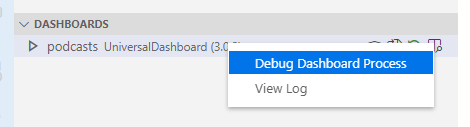
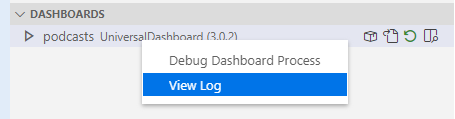
GitBook: [master] 7 pages and 19 assets modified

Changed region(s): [[0.0308, 0.0252, 1.0, 0.9076], [0.0, 0.0252, 0.2462, 0.2269]]

diff --git a/dashboard/development.md b/dashboard/development.md
@@ -1,0 +1,101 @@
+---
+description: Developing dashboards in VS Code.
+---
+
+# Development
+
+The [Visual Studio Code extension for PowerShell Universal](https://marketplace.visualstudio.com/items?itemName=ironmansoftware.powershell-universal) provides integration for working with dashboards. We recommend you also install the [PowerShell extension](https://marketplace.visualstudio.com/items?itemName=ms-vscode.PowerShell). 
+
+{% hint style="info" %}
+The first time you activate the Visual Studio Code extension, it will download the latest version of PowerShell Universal and start the server on port 5000.
+{% endhint %}
+
+## Developing a Dashboard
+
+To add a new dashboard, visit the admin console and go to Dashboard \ Dashboards and click the Add Dashboard button. 
+
+![](../.gitbook/assets/image%20%28129%29.png)
+
+After adding the dashboard, a dashboard PS1 file will be created and the `dashboards.ps1` file will be updated. You can view your dashboard in VS Code underneath the dashboards tree view. It will show the current state of the dashboard and the framework it is using. 
+
+![](../.gitbook/assets/image%20%28126%29.png)
+
+If you want to edit your dashboard, click the Open Dashboard File button. This will open the dashboard PS1 file in the editor and import the Universal module and Dashboard framework module so you have IntelliSense. 
+
+![](../.gitbook/assets/image%20%28133%29.png)
+
+From here, you can begin editing your dashboard.
+
+![](../.gitbook/assets/bxmax1ree3.gif)
+
+Your dashboard should restart automatically when you make changes. You will be able to view the dashboard in the browser by clicking the View button. 
+
+![](../.gitbook/assets/image%20%28127%29.png)
+
+If you need to restart your dashboard manually, you can click the Restart button. 
+
+![](../.gitbook/assets/image%20%28132%29.png)
+
+## Debugging a Dashboard
+
+### Logs
+
+You can view the dashboard logs by right clicking on the Dashboard and clicking View Log. The log should provide information about start up issues or errors when executing sections of your dashboard. 
+
+![](../.gitbook/assets/p8biqj6yvo.gif)
+
+### Debugger
+
+{% hint style="info" %}
+This section requires the PowerShell extension.
+{% endhint %}
+
+You can debug individual endpoints within your dashboard by using `Wait-Debugger`
+
+For example, if I wanted to debug the button on my dashboard, I would add it to the `OnClick` event handler. 
+
+```text
+New-UDDashboard -Title "Hello, World!" -Content {
+    New-UDTypography -Text "Hello, World!"
+
+    New-UDButton -Text "Learn more about Universal Dashboard" -OnClick {
+        Wait-Debugger
+        Invoke-UDRedirect https://docs.ironmansoftware.com
+    }
+}
+```
+
+Now, I can right click on my dashboard and click Debug Dashboard Process.
+
+![](../.gitbook/assets/image%20%28123%29.png)
+
+This will issue an `Enter-PSHostProcess` command in the Integrated Terminal. 
+
+```text
+PS C:\Users\adamr\Desktop> Enter-PSHostProcess -Id 15464
+
+[Process:15464]: PS C:\Users\adamr\Documents>
+```
+
+Next, you'll want to navigate to your page and click the button. Once the button is clicked, issue a `Get-Runspace` command in the Integrated Terminal. You'll notice that one of the runspaces is in `InBreakpoint` availability. 
+
+```text
+[Process:15464]: PS C:\Users\adamr\Documents> Get-Runspace
+
+
+ Id Name            ComputerName    Type          State         Availability
+ -- ----            ------------    ----          -----         ------------
+  1 Runspace1       localhost       Local         Opened        Busy        
+  2 Runspace2       localhost       Local         Opened        Available   
+  3 RemoteHost      localhost       Local         Opened        Available   
+  4 e8be011f-40f8-… localhost       Local         Opened        InBreakpoint
+```
+
+Finally, issue the `Debug-Runspace` command and VS Code will automatically open your endpoint in the debugger. You'll be able to step through your code, view variables and issue commands against the runspace. 
+
+![](../.gitbook/assets/jidgnpmbwy.gif)
+
+
+
+
+

diff --git a/automation/development.md b/automation/development.md
@@ -1,0 +1,50 @@
+---
+description: Developing scripts in VS Code
+---
+
+# Development
+
+The [Visual Studio Code extension for PowerShell Universal](https://marketplace.visualstudio.com/items?itemName=ironmansoftware.powershell-universal) provides integration for working with automation. We recommend you also install the [PowerShell extension](https://marketplace.visualstudio.com/items?itemName=ms-vscode.PowerShell). 
+
+{% hint style="info" %}
+The first time you activate the Visual Studio Code extension, it will download the latest version of PowerShell Universal and start the server on port 5000.
+{% endhint %}
+
+## Developing Scripts
+
+To add scripts to the Universal platform, you can do it via the admin console or the file system. The Visual Studio Code extension also provides integration for managing the `scripts.ps1` configuration file. 
+
+The Scripts tree view will provide access to each of your scripts, the admin console the `scripts.ps1` file.
+
+![](../.gitbook/assets/image%20%28120%29.png)
+
+To add a new script to the Universal platform, you can create the PS1 file on the file system and then add the script to the `scripts.ps1`. The file name is relative to the repository folder. You can also use fully qualified file paths. 
+
+```text
+New-PSUScript -Name "Script1.ps1" -Path "Script1.ps1" -InformationAction "Continue"
+```
+
+To edit a script in VS Code, click the Edit Script button. 
+
+![](../.gitbook/assets/image%20%28119%29.png)
+
+The script will open in the VS Code editor. 
+
+## Running Scripts
+
+You can start scripts by clicking the Run Script button. This will start a Universal Automation job. You'll get notifications of the job's progress in VS Code. 
+
+![](../.gitbook/assets/image%20%28128%29.png)
+
+## Developing Schedules
+
+You can edit schedules for scripts by editing the `schedules.ps1` file. A link to the file is available in the configuration tree view. 
+
+![](../.gitbook/assets/image%20%28131%29.png)
+
+Schedules are defined using `New-PSUSchedule` cmdlet.
+
+```text
+New-PSUSchedule -Cron "0 */4 * * *" -Script "Script1.ps1" -TimeZone "America/Denver"
+```
+

diff --git a/api/development.md b/api/development.md
@@ -1,0 +1,48 @@
+---
+description: Building APIs in VS Code.
+---
+
+# Development
+
+The [Visual Studio Code extension for PowerShell Universal](https://marketplace.visualstudio.com/items?itemName=ironmansoftware.powershell-universal) provides integration for working with APIs. We recommend you also install the [PowerShell extension](https://marketplace.visualstudio.com/items?itemName=ms-vscode.PowerShell). 
+
+{% hint style="info" %}
+The first time you activate the Visual Studio Code extension, it will download the latest version of PowerShell Universal and start the server on port 5000.
+{% endhint %}
+
+## Developing APIs
+
+You can add APIs by using the admin console or through the editor in Visual Studio Code. 
+
+To add an API in the Admin Console, you can visit `http://localhost:5000/admin/apis` and click Add Endpoint.
+
+![](../.gitbook/assets/image%20%28124%29.png)
+
+Once an `endpoints.ps1` file has been created, you can click the Open Endpoints.ps1 button within the API tree view to view the configuration file for APIs. 
+
+![](../.gitbook/assets/image%20%28122%29.png)
+
+The configuration file uses the Universal PowerShell cmdlets to define the endpoints within Universal. 
+
+If you created a blank endpoint, it would look something like this.
+
+```text
+New-PSUEndpoint -Url "/test" -Endpoint { 
+    # Enter your script to process requests.
+}
+```
+
+If you edit the `endpoints.ps1` file, it will update the API automatically. For example, if I added a new API, it would then appear in the admin console. 
+
+```text
+New-PSUEndpoint -Url "/test" -Endpoint { 
+ "hello"
+}
+
+New-PSUEndpoint -Url "/test2" -Endpoint { 
+    # Enter your script to process requests.
+}
+```
+
+![](../.gitbook/assets/image%20%28134%29.png)
+

diff --git a/debugging/debugging-scripts.md b/debugging/debugging-scripts.md
@@ -16,6 +16,10 @@ Jobs log extensively. You will see console and pipeline output. If you set`$Debu
 
 ### Dashboards
 
+{% hint style="info" %}
+See [dashboard Development](../dashboard/development.md) for information on how to use VS Code for development. 
+{% endhint %}
+
 Dashboards log informational, warning and error messages to their log. It's recommended to use logging when starting a dashboard rather than trying to attach a debugger. You can also use the `$DebugPreference` variable to get additional information during your dashboard startup. 
 
 ### Authentication and Authorization
@@ -80,7 +84,5 @@ For a full list of debugging commands, you can see the [Microsoft documentation 
 
 To debug a script, you can use the Wait-Debugger cmdlet within your script to pause the script until a debugger is attached. You can then use a debugger, like VS Code, to attach to the process and runspace to view variables, step through code and execute debugging commands. 
 
-PowerShell Pro Tools has a [One-Click Attach feature](https://docs.poshtools.com/powershell-pro-tools-documentation/visual-studio-code/one-click-attach) that makes it easier to debug scripts. 
-
-You can also debug scripts using the built in Enter-PSHostProcess, Get-Runspace and Debug-Runspace cmdlets.
+You can also debug scripts using the built in `Enter-PSHostProcess`, `Get-Runspace` and `Debug-Runspace` cmdlets.
 

diff --git a/visual-studio-code-extension.md b/visual-studio-code-extension.md
@@ -38,7 +38,7 @@ You can manage dashboards with the extension. You will see a list of dashboards 
 
 You can connect the Visual Studio debugger to the dashboard process by right clicking on the dashboard and click Debug Dashboard Process. This requires the PowerShell extension for Visual Studio Code. 
 
-![](.gitbook/assets/image%20%28121%29.png)
+![](.gitbook/assets/image%20%28130%29.png)
 
 After connecting the debugger, you can run commands such as `Get-Runspace` and `Debug-Runspace` to begin debugging aspects of your dashboard. 
 
@@ -46,7 +46,7 @@ After connecting the debugger, you can run commands such as `Get-Runspace` and `
 
 You can view dashboard logs by right clicking on the dashboard and clicking View Logs. They will open in a new tab.
 
-![](.gitbook/assets/image%20%28119%29.png)
+![](.gitbook/assets/image%20%28121%29.png)
 
 ### Scripts
 

diff --git a/dashboard/dashboards/building-dashboards.md b/dashboard/dashboards/building-dashboards.md
@@ -1,7 +1,7 @@
 # Building Dashboards
 
 {% hint style="info" %}
-We recommend installing the [PowerShell Universal Visual Studio Code extension](https://marketplace.visualstudio.com/items?itemName=ironmansoftware.powershell-universal). 
+We recommend installing the [PowerShell Universal Visual Studio Code extension](https://marketplace.visualstudio.com/items?itemName=ironmansoftware.powershell-universal). Read more about dashboard development [here](../development.md).
 {% endhint %}
 
 When building dashboards, you will pick one of the two built in dashboard frameworks. The components that are available for that framework will different. You can find examples of each of the frameworks at the below links. 

diff --git a/SUMMARY.md b/SUMMARY.md
@@ -13,10 +13,12 @@
 ## API
 
 * [About](api/about.md)
+* [Development](api/development.md)
 
 ## Automation
 
 * [About](automation/about.md)
+* [Development](automation/development.md)
 * [Scripts](automation/scripts.md)
 * [Jobs](automation/jobs.md)
 * [PowerShell Versions](automation/powershell-versions.md)
@@ -26,6 +28,7 @@
 ## Dashboard
 
 * [About](dashboard/about.md)
+* [Development](dashboard/development.md)
 * [Dashboards](dashboard/dashboards/README.md)
   * [Migrating From Universal Dashboard 2.9](dashboard/dashboards/migrating-from-universal-dashboard-2.9.md)
   * [Building Dashboards](dashboard/dashboards/building-dashboards.md)
